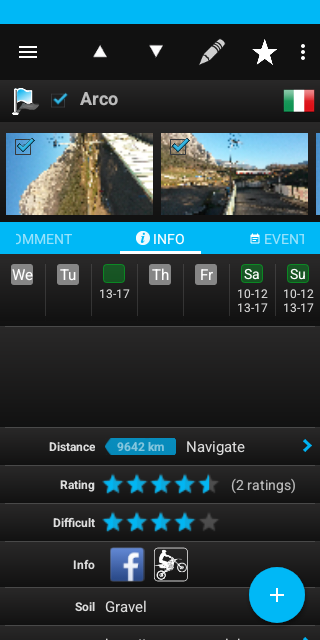
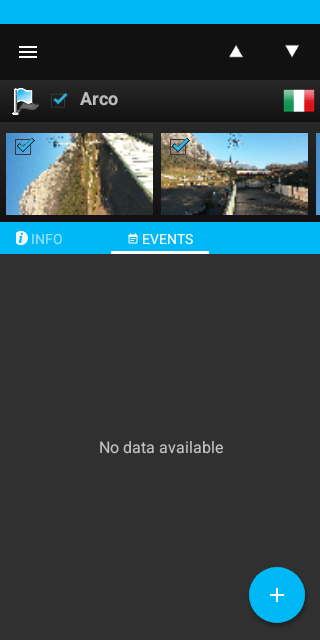
Swipe back to info in detail test

diff --git a/MXApp/src/androidTest/java/info/mx/tracks/base/BaseTrackDetailTest.kt b/MXApp/src/androidTest/java/info/mx/tracks/base/BaseTrackDetailTest.kt
@@ -61,7 +61,7 @@ abstract class BaseTrackDetailTest(private val restTrackId: Long, private val pr
         onView(isRoot()).captureToBitmap().writeToTestStorage("${javaClass.simpleName}_${nameRule.methodName}-1")
 //        onView(withId(android.R.id.button2)).perform(click())
 //        onView(withId(android.R.id.button1)).check(matches(isDisplayed()));
-        onView(isRoot()).captureToBitmap().writeToTestStorage("${javaClass.simpleName}_${nameRule.methodName}-2")
+//        onView(isRoot()).captureToBitmap().writeToTestStorage("${javaClass.simpleName}_${nameRule.methodName}-2")
 //
 //        onData(withId(R.id.list_overview)).atPosition(1).perform(click())
 //        onView(isRoot()).captureToBitmap().writeToTestStorage("${javaClass.simpleName}_${nameRule.methodName}-d1")
@@ -74,6 +74,10 @@ abstract class BaseTrackDetailTest(private val restTrackId: Long, private val pr
         onView(withId(R.id.viewPager)).perform(swipeRight())
         Thread.sleep(200)
         onView(isRoot()).captureToBitmap().writeToTestStorage("${javaClass.simpleName}_${nameRule.methodName}-comment")
+        onView(withId(R.id.viewPager)).perform(swipeLeft())
+        Thread.sleep(200)
+        onView(isRoot()).captureToBitmap().writeToTestStorage("${javaClass.simpleName}_${nameRule.methodName}-info")
+
     }
 
 }
